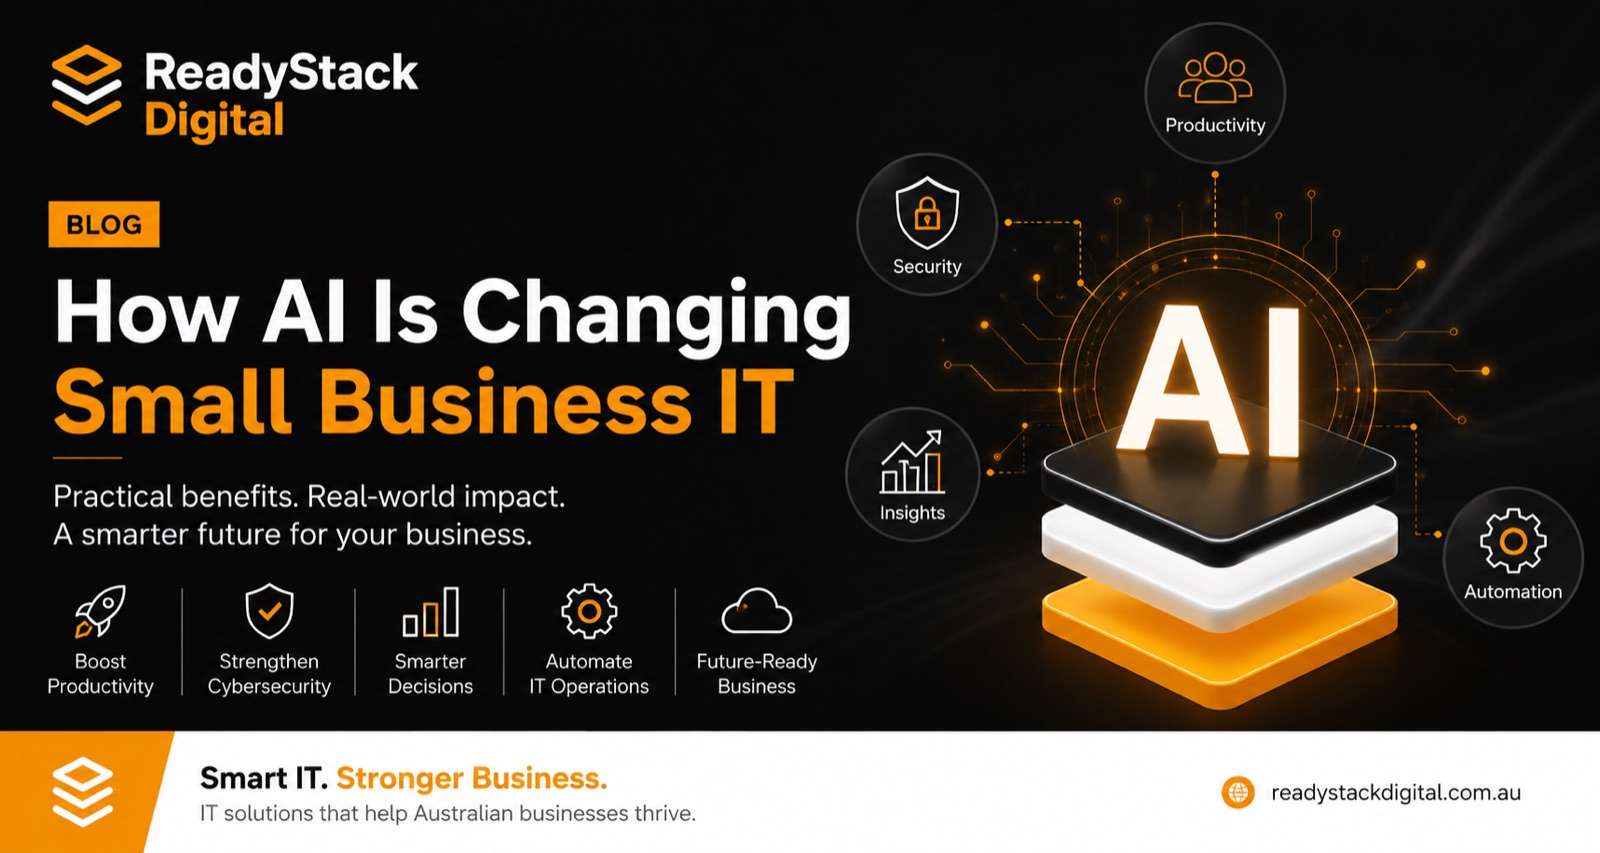
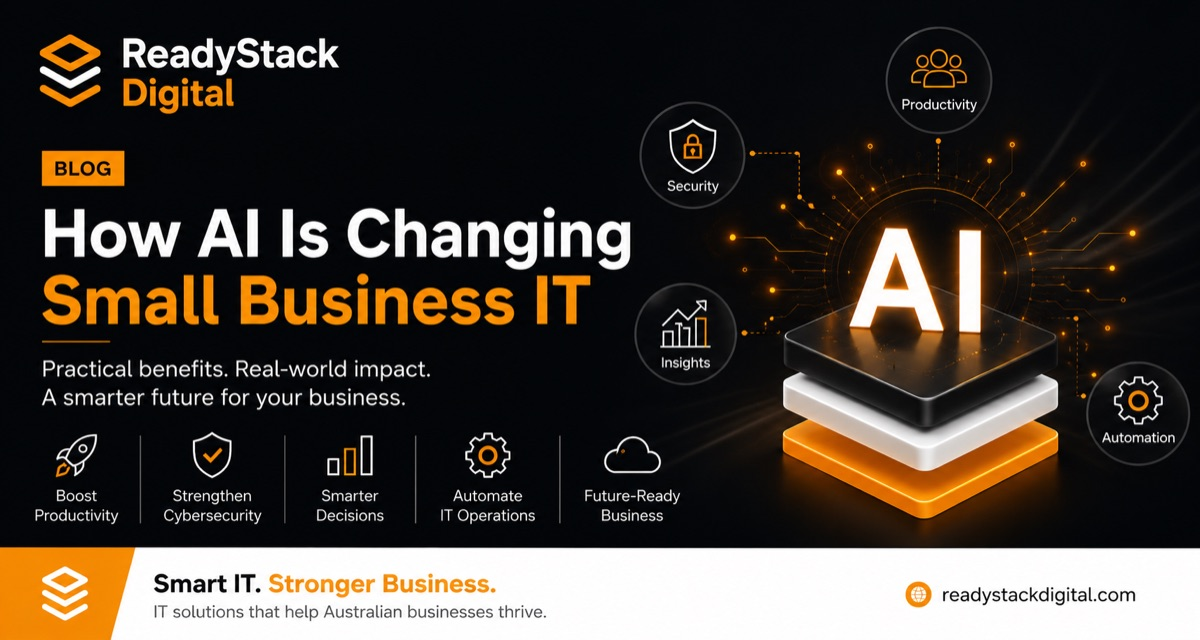
perf: serve blog covers as WebP, with JPEG copies for link previews
Pages CMS uploads covers as 1.3 to 1.8 MB PNGs. Each cover is now a WebP
at its native size (62 to 119 KB; the covers drop from 15.7 MB to under
1 MB) with a 1200px JPEG beside it. The post template points og:image,
twitter:image and the BlogPosting image at the JPEG, because LinkedIn's
crawler still skips WebP, and falls back to the cover itself when no JPEG
exists. Cover filenames with a space or a colon are now kebab-case.

diff --git a/src/content/posts/do-australian-tradies-and-clinics-really-need-a-website-in-2026-or-is-a-google-business-profile-enough.md b/src/content/posts/do-australian-tradies-and-clinics-really-need-a-website-in-2026-or-is-a-google-business-profile-enough.md
@@ -5,7 +5,7 @@ publishedDate: 2026-07-25
 excerpt: An honest look at when a Google Business Profile is enough for a trade
   or clinic business in Australia, and the point where going without a website
   starts costing you real work.
-coverImage: /images/posts/au-businesses-google:website.png
+coverImage: /images/posts/au-businesses-google-website.webp
 draft: false
 ---
 Most web designers won't admit this, but for a lot of trades and clinics a Google Business Profile really is doing most of the heavy lifting. If you're a solo plumber booked out three weeks in advance on word of mouth and a steady run of "near me" searches, a website is not the thing standing between you and more money.

diff --git a/src/content/posts/over-60percent-of-your-visitors-are-on-a-phone-is-your-site-built-for-them.md b/src/content/posts/over-60percent-of-your-visitors-are-on-a-phone-is-your-site-built-for-them.md
@@ -5,7 +5,7 @@ updatedDate: 2026-08-22
 excerpt: Most Australian small business websites are still designed on a desktop
   and checked on a phone as an afterthought. Here's how to tell if yours works
   on mobile, and the fixes that matter most.
-coverImage: /images/posts/mobile-friendly-banner.png
+coverImage: /images/posts/mobile-friendly-banner.webp
 draft: false
 ---
 Most of the people looking at your website right now are holding a phone. For a typical Australian professional services business, mobile traffic sits somewhere between 55% and 70% of all visits, and for anything people search for on the go (a plumber, a physio, a cafe, a lawyer they need today) it's often higher.

diff --git a/src/content/posts/the-tools-australian-small-businesses-are-overpaying-for-and-the-free-alternatives.md b/src/content/posts/the-tools-australian-small-businesses-are-overpaying-for-and-the-free-alternatives.md
@@ -6,7 +6,7 @@ updatedDate: 2026-08-15
 excerpt: A practical audit of the software subscriptions draining Australian SMB
   budgets, which free alternatives genuinely work, and which ones are false
   economy that will cost you more than the subscription.
-coverImage: /images/posts/overpaying-tools.png
+coverImage: /images/posts/overpaying-tools.webp
 draft: false
 ---
 The average Australian small business is running somewhere between eight and twenty software subscriptions, and most owners couldn't list them all from memory. That's the real problem. Not any single overpriced tool, but the accumulation of $15 and $30 and $49 a month charges that nobody ever revisits.

diff --git a/src/content/posts/how-to-get-your-australian-business-cited-by-chatgpt-and-perplexity.md b/src/content/posts/how-to-get-your-australian-business-cited-by-chatgpt-and-perplexity.md
@@ -5,7 +5,7 @@ updatedDate: 2026-09-05
 excerpt: More Australians are asking AI assistants for recommendations instead
   of searching Google. Here's the practical, technical foundation that makes
   your business the one ChatGPT, Perplexity, and Google AI Overviews cite.
-coverImage: /images/posts/get-citedby-ai.png
+coverImage: /images/posts/get-citedby-ai.webp
 draft: false
 ---
 Someone in Sydney needs a conveyancer. Two years ago they typed "conveyancer near me" into Google and scrolled the results. Today, a growing number of them open ChatGPT or Perplexity and ask "who's a good conveyancer in the Inner West?" and act on the two or three names the AI gives back.

diff --git a/src/content/posts/claude-vs-chatgpt-vs-gemini-for-business-writing-an-honest-comparison.md b/src/content/posts/claude-vs-chatgpt-vs-gemini-for-business-writing-an-honest-comparison.md
@@ -4,7 +4,7 @@ publishedDate: 2026-08-09
 excerpt: Three AI assistants, three very different strengths for Australian
   business writing. A practical comparison of output quality, workflow fit,
   pricing, and privacy, without the hype.
-coverImage: /images/posts/ai-comparision.png
+coverImage: /images/posts/ai-comparision.webp
 draft: false
 ---
 Every Australian business owner we work with is now paying for at least one AI assistant, and most have no idea whether they picked the right one. The comparison articles out there are mostly benchmark charts and affiliate links, which tells you nothing useful about whether the thing will write a decent client proposal.

diff --git a/src/content/posts/how-ai-is-changing-small-business-it-oror-practical-benefits-risks-and-what-to-expect.md b/src/content/posts/how-ai-is-changing-small-business-it-oror-practical-benefits-risks-and-what-to-expect.md
@@ -5,7 +5,7 @@ publishedDate: 2026-07-03
 excerpt: In this article, we'll explore how AI is transforming small business
   IT, where it delivers the greatest value, the risks to consider, and how
   businesses can prepare for an AI-driven future.
-coverImage: /images/posts/How AI is Changing Businesses.png
+coverImage: /images/posts/how-ai-is-changing-businesses.webp
 draft: false
 ---
 Artificial intelligence (AI) is no longer reserved for large enterprises with dedicated technology teams. Today, businesses of all sizes are using AI-powered tools to improve productivity, strengthen cybersecurity, automate repetitive tasks, and make more informed decisions.

diff --git a/src/content/posts/5-easy-ways-ai-can-help-grow-your-small-business-without-the-hype.md b/src/content/posts/5-easy-ways-ai-can-help-grow-your-small-business-without-the-hype.md
@@ -5,7 +5,7 @@ updatedDate: 2026-09-26
 excerpt: Most AI advice for small business is either overwhelming or oversold.
   Here are five practical, low-effort ways Australian small businesses are
   actually using AI to save time and win more work.
-coverImage: /images/posts/how-ai-help-business.png
+coverImage: /images/posts/how-ai-help-business.webp
 draft: false
 ---
 Every second article about AI and small business is either breathless hype or a wall of tools you'll never have time to learn. Neither helps a busy owner who just wants to know: what can this actually do for me this week, without a big project or a steep learning curve?

diff --git a/src/content/posts/how-online-booking-cuts-no-shows-for-australian-clinics-and-salons.md b/src/content/posts/how-online-booking-cuts-no-shows-for-australian-clinics-and-salons.md
@@ -5,7 +5,7 @@ updatedDate: 2026-09-12
 excerpt: No-shows quietly drain thousands from Australian clinics and salons
   every year. Here's how moving bookings online, with reminders and deposits,
   reduces them, and what to look for in a booking system.
-coverImage: /images/posts/online-booking.png
+coverImage: /images/posts/online-booking.webp
 draft: false
 ---
 Every clinic and salon owner knows the feeling. A gap in the day where someone was meant to be. A chair or a treatment room sitting empty, staff paid regardless, and a client who could have taken that slot turned away last week because you were "fully booked".

diff --git a/src/content/posts/8-seo-myths-that-are-wasting-australian-smb-budgets-in-2026.md b/src/content/posts/8-seo-myths-that-are-wasting-australian-smb-budgets-in-2026.md
@@ -4,7 +4,7 @@ publishedDate: 2026-08-01
 excerpt: Australian small businesses lose thousands on SEO every year to
   outdated advice and predatory agencies. Here are the eight most expensive
   myths, and what actually works instead.
-coverImage: /images/posts/seo-myth-banner.png
+coverImage: /images/posts/seo-myth-banner.webp
 draft: false
 ---
 Australian small businesses spend hundreds of millions on SEO every year, and a large share of it produces nothing measurable. The problem isn't that SEO doesn't work. The problem is that most of what SMBs are sold as SEO is either outdated, incomplete, or actively harmful.

diff --git a/src/content/posts/never-miss-another-customer-how-a-247-ai-receptionist-helps-your-business-win-more-leads.md b/src/content/posts/never-miss-another-customer-how-a-247-ai-receptionist-helps-your-business-win-more-leads.md
@@ -4,7 +4,7 @@ title: "Never Miss Another Customer: How a 24/7 AI Receptionist Helps Your
 publishedDate: 2026-07-12
 excerpt: Every missed call is a decision your customer makes - whether to keep
   waiting or contact someone else.
-coverImage: /images/posts/ai-receptionist.png
+coverImage: /images/posts/ai-receptionist.webp
 draft: false
 ---
 # Never Miss Another Customer: How a 24/7 AI Receptionist Helps Your Business Win More Leads

diff --git a/src/content/posts/welcome-to-the-readystack-blog.md b/src/content/posts/welcome-to-the-readystack-blog.md
@@ -3,7 +3,7 @@ title: Welcome to the ReadyStack blog
 publishedDate: 2026-06-05
 excerpt: A quick hello and a look at what we'll be covering, practical guides on
   websites, SEO, email and security for small businesses.
-coverImage: /images/posts/blog-banner.jpg
+coverImage: /images/posts/blog-banner.webp
 draft: false
 ---
 We're kicking off the ReadyStack Digital blog with a simple goal: help small

diff --git a/src/content/posts/7-time-wasting-tasks-you-can-automate-to-grow-your-business.md b/src/content/posts/7-time-wasting-tasks-you-can-automate-to-grow-your-business.md
@@ -7,7 +7,7 @@ excerpt: >-
 
   The more time spent on repetitive administration, the less time available for
   serving customers and growing the business.
-coverImage: /images/posts/blog-automation.png
+coverImage: /images/posts/blog-automation.webp
 draft: false
 ---
 # 7 Time-Wasting Tasks You Can Automate to Grow Your Business
